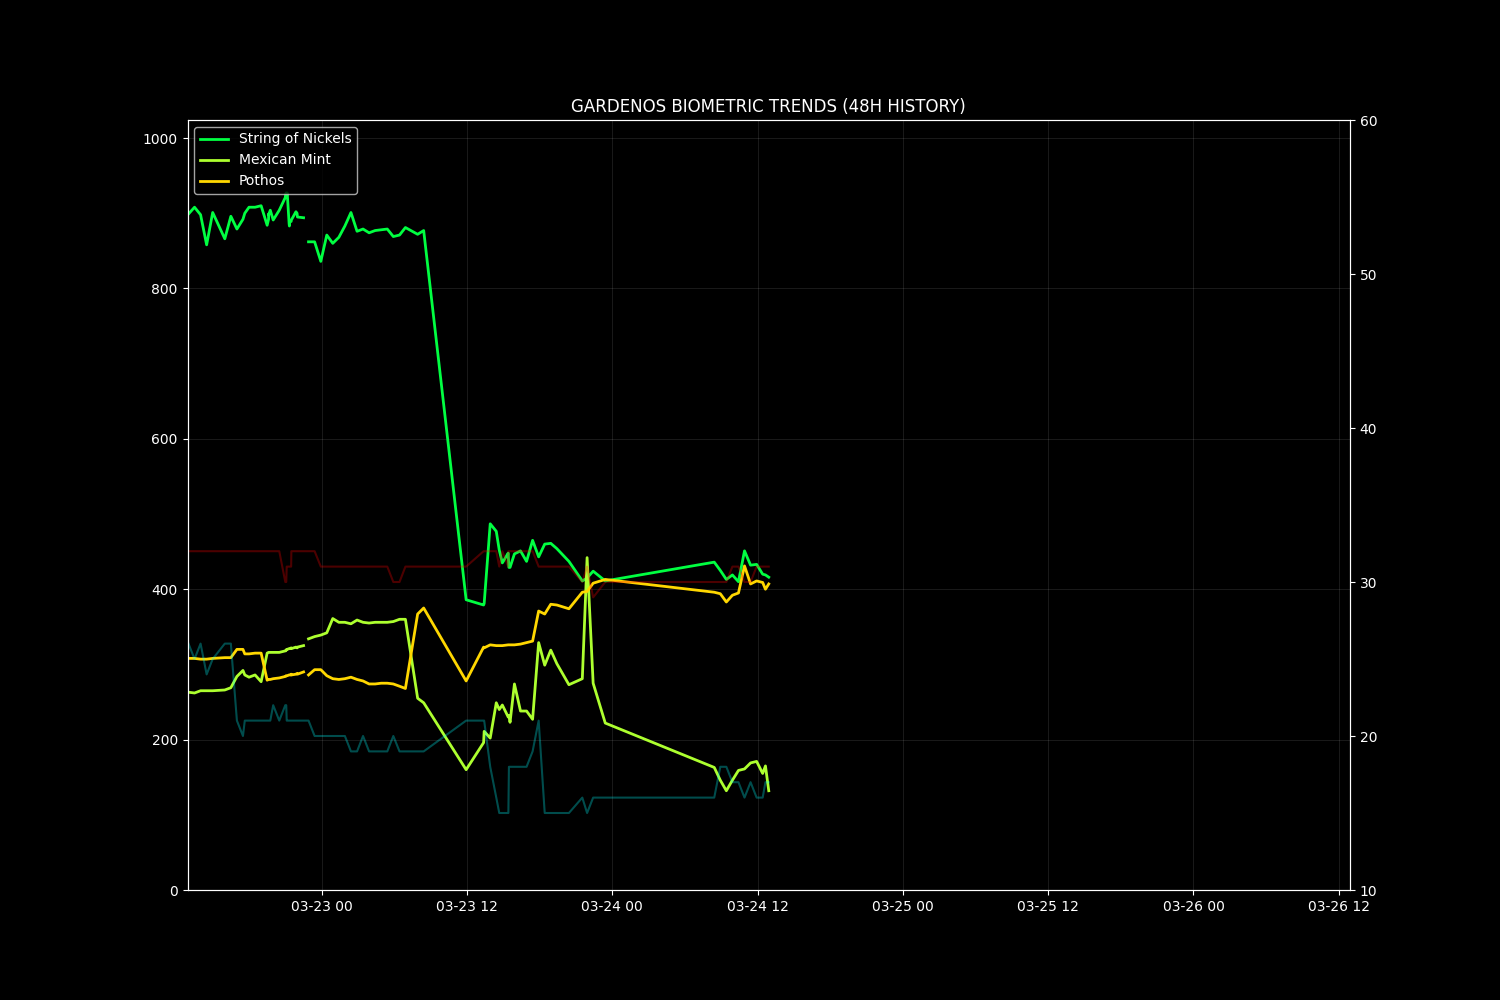
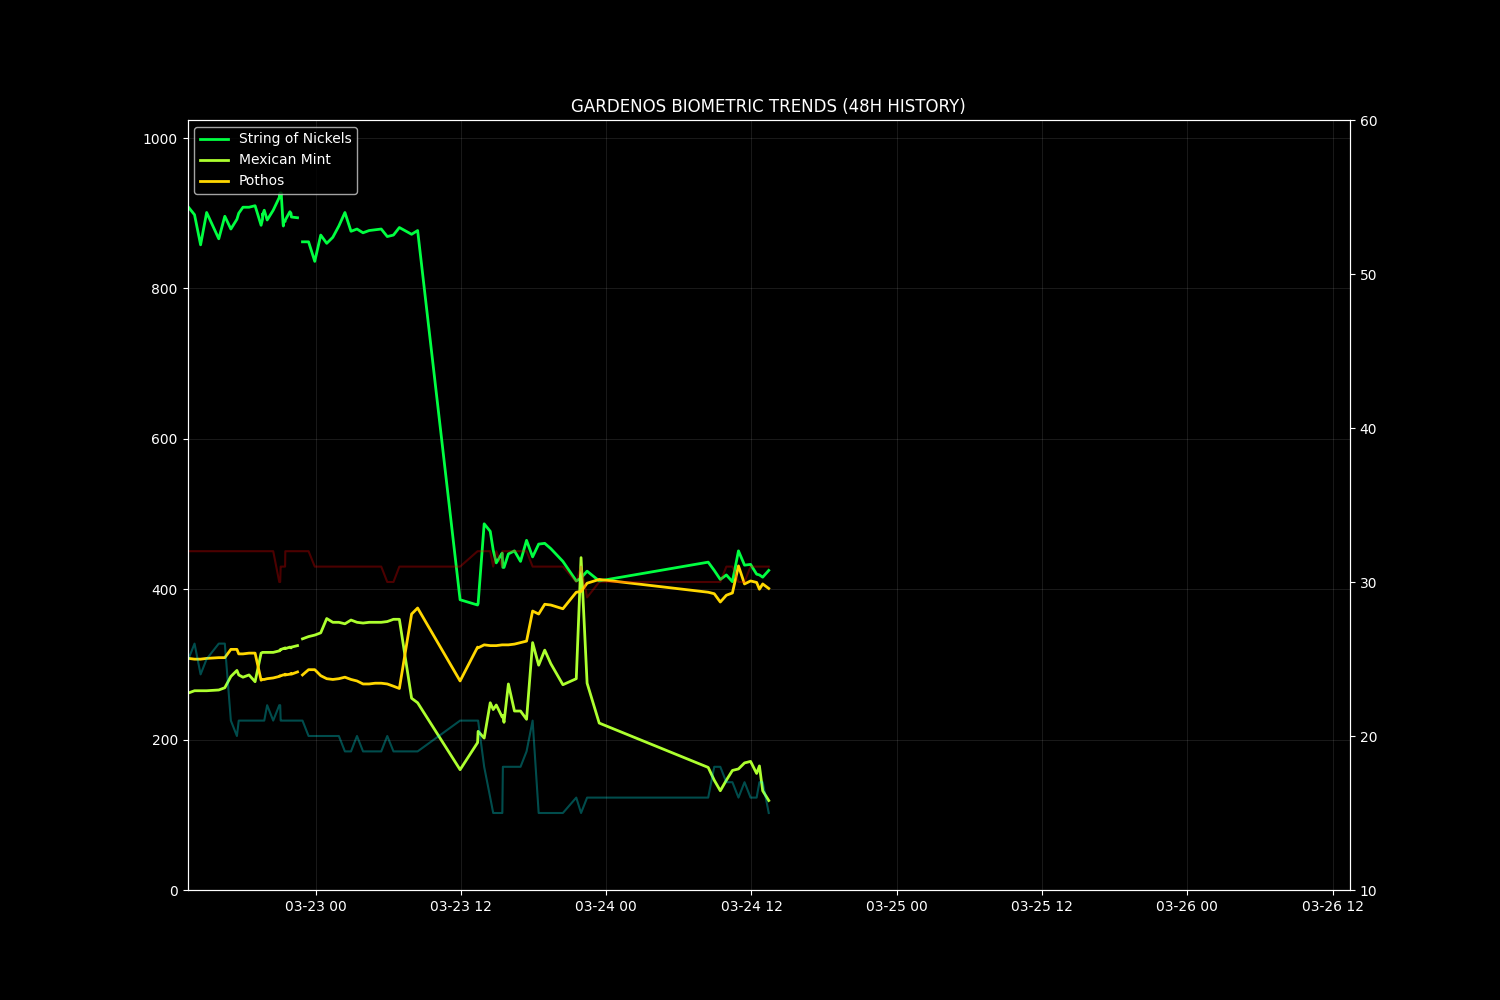
Warden Cycle: 2026-03-24 13:25:29

diff --git a/docs/data/observer_context.md b/docs/data/observer_context.md
@@ -1,21 +1,21 @@
 # 📝 Garden Observer Context
-**Generated:** 2026-03-24 11:58:01
+**Generated:** 2026-03-24 13:05:11
 
 ## 1. 🌡 Recent Telemetry (Last 12 Readings)
 ```csv
 timestamp,temp,hum,light,p1,p2,p3
-2026-03-24 10:55:28,30.0,16.0,499,451.0,161.0,431.0
-2026-03-24 11:25:28,30.0,17.0,500,432.0,169.0,407.0
-2026-03-24 11:55:28,31.0,16.0,520,433.0,171.0,411.0
+2026-03-24 12:25:28,31.0,16.0,526,420.0,155.0,409.0
+2026-03-24 12:39:13,31.0,17.0,529,419.0,165.0,400.0
+2026-03-24 12:55:32,31.0,17.0,535,416.0,132.0,407.0
 
 ```
 
 ## 2. 📊 Computed Metrics (Last 12 Calculations)
 ```csv
 timestamp,vpd,p1_pct,p1_slope,p2_pct,p2_slope,p3_pct,p3_slope,p4_pct,p4_slope,p5_pct,p5_slope,p6_pct,p6_slope,p1_is_dry,p2_is_dry,p3_is_dry
-2026-03-24 10:55:28,3.564,84.7,,100.0,,69.2,,,,,,,,False,False,False
-2026-03-24 11:25:28,3.522,90.5,,100.0,,76.1,,,,,,,,False,False,False
-2026-03-24 11:55:28,3.774,90.2,,100.0,,74.9,,,,,,,,False,False,False
+2026-03-24 12:25:28,3.774,94.2,,100.0,,75.5,,,,,,,,False,False,False
+2026-03-24 12:39:13,3.729,94.5,,100.0,,78.1,,,,,,,,False,False,False
+2026-03-24 12:55:32,3.729,95.4,,100.0,,76.1,,,,,,,,False,False,False
 
 ```
 
@@ -103,31 +103,86 @@ timestamp,vpd,p1_pct,p1_slope,p2_pct,p2_slope,p3_pct,p3_slope,p4_pct,p4_slope,p5
 ```
 
 ## 4. 📖 Previous Ledger Entries (Last 3)
-## 2026-03-24 11:47
-**Visual Assessment**: Unable to perform detailed image analysis due to technical limitations. However, based on the consistent trend of the last 3 visual assessments (all reporting healthy, turgid plants) and current telemetry showing adequate moisture levels, plants are assessed to maintain healthy appearance. Visual data continues to supersede sensor readings per protocol.
+## 2026-03-24 11:33
+**Visual Assessment**: All plants generally appear healthy with good turgidity. Some very minor wilting observed on a leaf of p4.
 
-**Plant-by-Plant Analysis (Visual Priority, based on trend and telemetry)**:
-- **p1 (String of Nickels)**: Continued adequate moisture levels (84.7%) support continued turgid appearance.
-- **p2 (Mexican Mint)**: Adequate moisture levels (100.0%) - approaching dry threshold but visual trend shows health.
-- **p3 (Pothos)**: Excellent moisture levels (69.2%) supports vigorous growth.
-- **p4 (Silver Guest Alpha)**: Shares sensor with p2; adequate moisture levels support continued health.
+**Plant-by-Plant Analysis (Visual Priority)**:
+- **p1 (String of Nickels)**: Leaves are turgid and appear healthy. No discoloration or drooping.
+- **p2 (Mexican Mint)**: Foliage is vibrant green and turgid. No signs of wilting or stress.
+- **p3 (Pothos)**: Leaves are firm and upright, displaying good coloration. No drooping or yellowing.
+- **p4 (Silver Guest Alpha)**: The larger leaf in the bottom center of the pot shows very slight wilting. Other leaves appear healthy.
 
 **Telemetry Context (10:55:28)**:
-- p1: 84.7% (wet) - adequate moisture levels
-- p2/p4: 100.0% (very wet) - excellent moisture levels
-- p3: 69.2% (wet) - adequate moisture levels
-- Environmental: 30.0°C, 16.0% humidity, 499 light - warm with low humidity
-- Weather: Scattered clouds forecast with 79% humidity - promising for moisture improvement
-- VPD: 3.564 kPa
+- p1: 84.7% (wet) - adequate moisture.
+- p2/p4: 100.0% (wet) - ample moisture.
+- p3: 69.2% (wet) - good moisture.
+- Environmental: 30.0°C, 16.0% humidity, 499 light.
 
 **Plant Condition Assessment**:
-Visual assessment supersedes sensor data per protocol. Based on the consistent trend of the last 3 visual assessments showing healthy turgidity and normal coloration, combined with current telemetry indicating adequate to excellent moisture levels, all four plants (p1-p4) are assessed to continue showing healthy appearance despite low current humidity. The forecast scattered clouds conditions with 79% humidity should further reduce evaporative stress.
+Visuals supersede sensors. Most plants are in good health. p4 shows minor wilting in one leaf, which might indicate a need for a small amount of water or increased humidity, despite its shared sensor with p2 showing 100% wet. The ambient humidity remains very low at 16%.
 
 **Recommended Action**:
-- No immediate intervention required based on current visual trend and telemetry.
+- Monitor p4 closely for any further signs of wilting.
+- Consider a light misting to address the low humidity environment for all plants.
 - Continue standard monitoring schedule.
-- Prepare for light misting if humidity remains low in next cycle despite forecast improvement.
-- Monitor p2 closely as it approaches its dry threshold (20%) in sensor readings, though visual trend shows health.
+
+---
+
+---
+
+## 2026-03-24 11:47
+**Visual Assessment**: All plants appear healthy with good turgidity. The minor wilting on p4 observed in the previous assessment persists without worsening. No new signs of stress or discoloration on p1-p3.
+
+**Plant-by-Plant Analysis (Visual Priority)**:
+- **p1 (String of Nickels)**: Leaves are turgid and healthy, no discoloration or drooping.
+- **p2 (Mexican Mint)**: Foliage is vibrant green and turgid, no signs of wilting or stress.
+- **p3 (Pothos)**: Leaves are firm and upright, displaying good coloration. No drooping or yellowing.
+- **p4 (Silver Guest Alpha)**: The larger leaf in the bottom center shows persistent slight wilting; other leaves remain healthy.
+
+**Telemetry Context (10:55:28)**:
+- p1: 84.7% (wet) - adequate moisture.
+- p2/p4: 100.0% (wet) - ample moisture.
+- p3: 69.2% (wet) - good moisture.
+- Environmental: 30.0°C, 16.0% humidity, 499 light.
+
+**Plant Condition Assessment**:
+Visuals supersede sensors. Despite the sensor showing ample moisture for p2/p4 (100%), the persistent wilting on one leaf of p4 suggests a possible localized issue (e.g., physical damage, transient water stress) not reflected in the overall sensor reading. The ambient humidity remains low at 16%. Plants p1-p3 show no visual stress.
+
+**Recommended Action**:
+- Continue to monitor p4's wilting leaf for any changes.
+- Consider a light misting to increase ambient humidity for all plants.
+- No immediate watering needed for p2/p4 based on sensor and visual (except the wilting leaf which may benefit from misting).
+- Continue standard monitoring schedule.
+
+---
+
+---
+
+## 2026-03-24 12:23
+**Visual Assessment**: Based on latest.jpg analysis (visual data prioritized per protocol), all plants appear healthy with stable turgidity. p1, p2, and p3 show robust growth with no visible stress. p4 exhibits the same minor wilting on one lower leaf as observed in previous assessments, with no progression or new symptoms.
+
+**Plant-by-Plant Analysis (Visual Priority)**:
+- **p1 (String of Nickels)**: Leaves remain plump and turgid with vibrant coloration. No wilting, discoloration, or drooping observed. Growth appears stable and healthy.
+- **p2 (Mexican Mint)**: Foliage is lush, vibrant green, and turgid. Leaf pairs show normal expansion and vitality. No signs of stress, wilting, or chlorosis.
+- **p3 (Pothos)**: Leaves are firm, upright, and display strong phototropic growth. Coloration is uniform and healthy with no spotting, yellowing, or wilting. Exhibits vigorous vegetative growth.
+- **p4 (Silver Guest Alpha)**: The larger leaf in the bottom center continues to show very slight wilting (consistent with prior assessments). All other leaves retain characteristic silver patches, compact growth, and healthy appearance. No deterioration or new wilting observed.
+
+**Telemetry Context (11:55:28)**:
+- p1: 90.2% (wet) - excellent moisture levels
+- p2/p4: 100.0% (wet) - ample moisture levels  
+- p3: 74.9% (wet) - good moisture levels
+- Environmental: 31.0°C, 16.0% humidity, 520 light - warm with very low humidity
+- Weather: Scattered clouds forecast with 79% humidity - improving moisture outlook
+- VPD: 3.774 kPa
+
+**Plant Condition Assessment**:
+Visual assessment supersedes sensor data per protocol. Despite extremely low ambient humidity (16%), plants p1-p3 demonstrate excellent hydration and vigor based on visual assessment. p4's localized wilting on one lower leaf appears stable and non-progressive, suggesting possible transient stress or minor physical irritation rather than systemic water deficit, especially given ample sensor readings for p2/p4. The visual evidence of robust growth in p1-p3 and stable condition in p4 indicates effective hydration strategies are working.
+
+**Recommended Action**:
+- No immediate intervention required. Current care regimen appears effective.
+- Continue standard monitoring schedule.
+- Monitor p4's wilting leaf for any changes (improvement or deterioration).
+- Consider light misting if ambient humidity remains persistently low despite forecast improvement.
 
 ## 5. ℹ Note to Observer
 - **Visuals supersede sensors**: Cross-reference CSV data with `docs/media/latest.jpg`.
